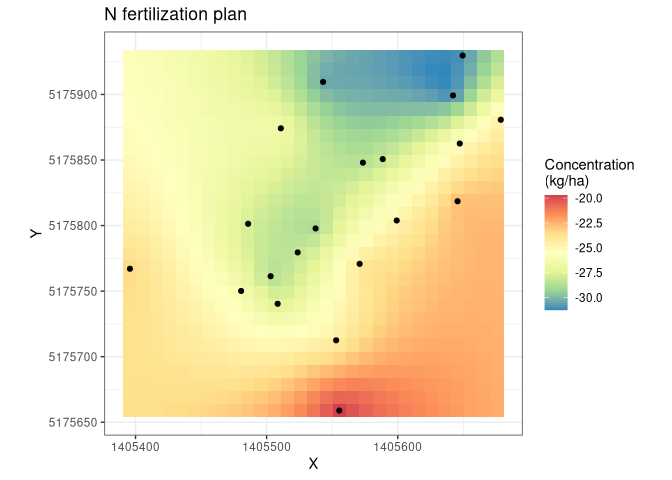
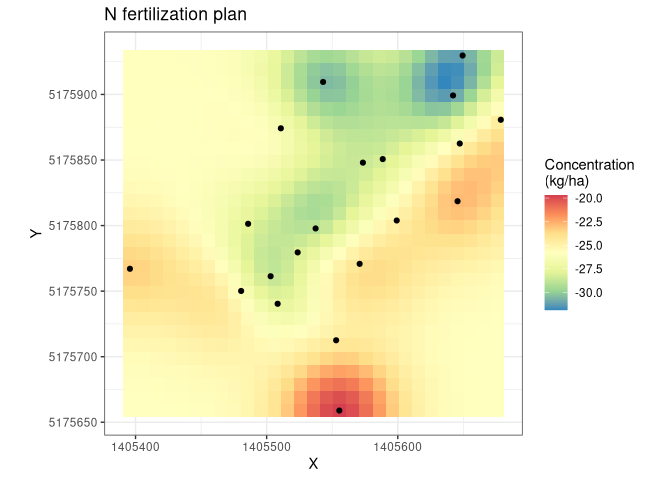
Greater flexibility in spatial_nutrient to pass additional arguments variogram functions

diff --git a/README.md b/README.md
@@ -219,7 +219,6 @@ bounding box, with a 10 metres spatial resolution:
 
 ``` r
 spatials_l <- spatial_nutrient(soils_spatial, spat_res = 10)
-#> [1] "+init=epsg:3857 +proj=merc +a=6378137 +b=6378137 +lat_ts=0 +lon_0=0 +x_0=0 +y_0=0 +k=1 +units=m +nadgrids=@null +no_defs"
 #> [using ordinary kriging]
 #> [using ordinary kriging]
 #> [using ordinary kriging]
@@ -246,15 +245,37 @@ A rough interpretation of the plans clearly suggests that there is a
 need for a light fertilization by phosphorus, that potassium is in great
 excess and nitrogen is more than enough for the successive crop.
 
-The fertilization plan can be easily converted into a raster stack and
-saved as GeoTIFF image for further GIS elaboration:
+For a greater flexibility the variogram step of the spatialization
+process can be specifically tailored to use a specific function among
+\[gstat::vgm()\] (controlled by argument `model` set to a specific `vgm`
+model) and \[automap::autofitVariogram()\] (controlled by argument
+`model = auto`). Further arguments can be passed to either functions:
 
 ``` r
+spatials_l <- c(
+  spatial_nutrient(soils_spatial, model = "auto", spat_res = 10, nutrient = "nitrogen", alpha = seq(0, 359, 15)),
+  spatial_nutrient(soils_spatial, model = "Ste",  spat_res = 10, nutrient = "phosphorus"),
+  spatial_nutrient(soils_spatial, model = "auto", spat_res = 10, nutrient = "potassium", alpha = seq(0, 359, 30)))
+#> [using ordinary kriging]
+#> [using ordinary kriging]
+#> [using ordinary kriging]
+last_plot() %+% as.data.frame(spatials_l$p) %+% labs(title = "N fertilization plan")
+last_plot() %+% as.data.frame(spatials_l$p) %+% labs(title = "P fertilization plan")
+last_plot() %+% as.data.frame(spatials_l$k) %+% labs(title = "K fertilization plan")
+```
+
+![](README_files/figure-gfm/unnamed-chunk-9-1.png)![](README_files/figure-gfm/unnamed-chunk-9-2.png)![](README_files/figure-gfm/unnamed-chunk-9-3.png)
+
+```` 
+
+The fertilization plan can be easily converted into a raster stack and saved as GeoTIFF image for further GIS elaboration:
+
+```r
 # coerce to SpatialPixelsDataFrame
 kriges_spdf_l <- lapply(spatials_l, function(spg) { sp::gridded(spg) <- TRUE; spg })
 krige_rs      <- raster::stack(lapply(kriges_spdf_l, raster::raster))
 raster::writeRaster(krige_rs, "npk_fert_plans.tif", format = "GTiff")
-```
+````
 
 ## References
 
